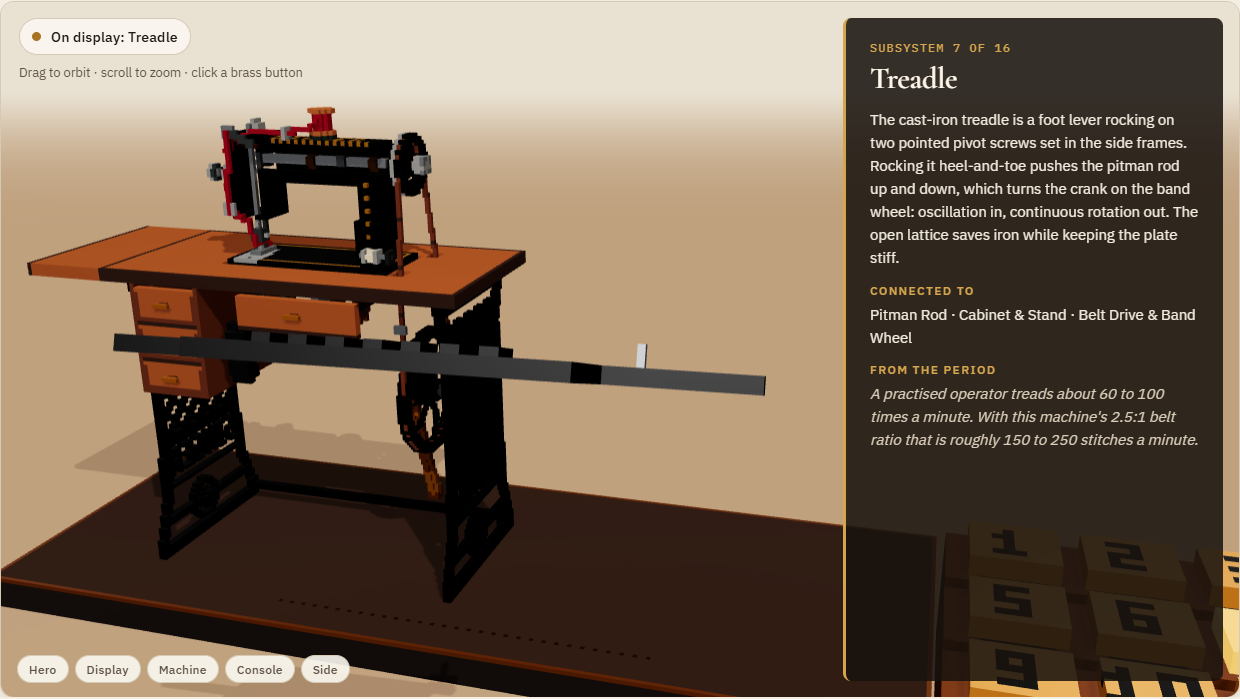
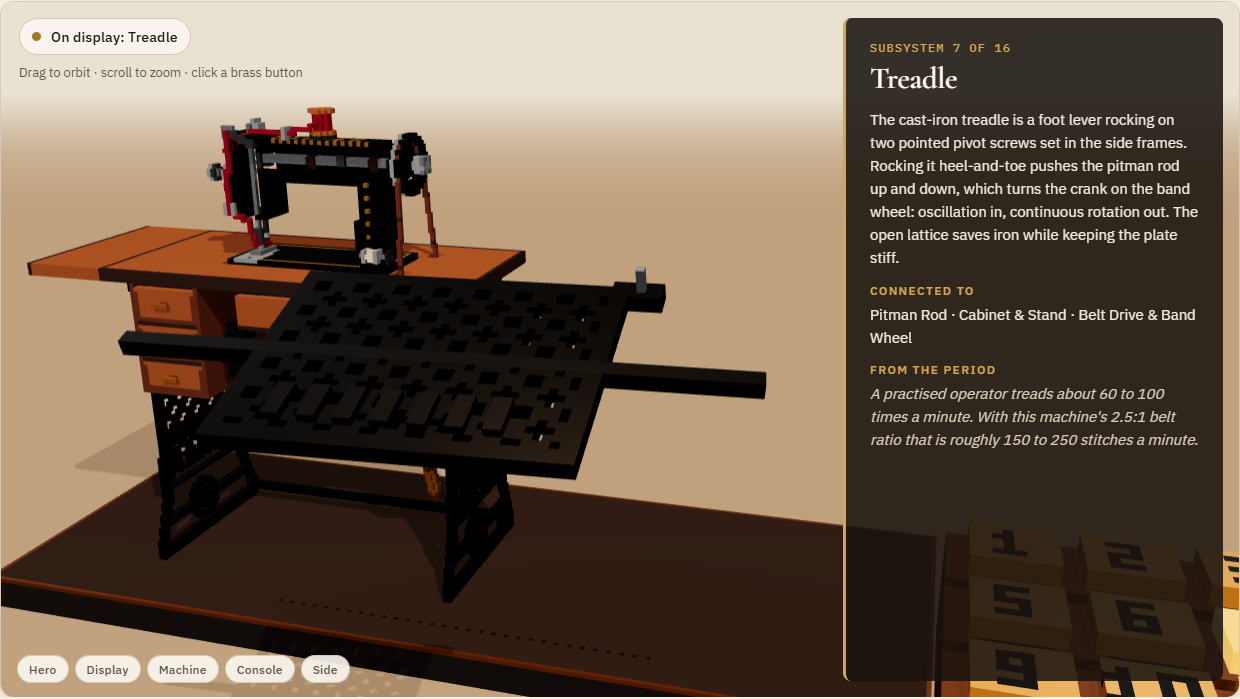
Treadle display tilts its lattice face toward the visitor (+20 deg)

Changed region(s): [[0.0919, 0.3906, 0.6435, 0.691]]

diff --git a/docs/PLAN.md b/docs/PLAN.md
@@ -18,7 +18,7 @@ comes to rest at every corner. Display poses are Euler degrees `{x, y, z}` (appl
 | 4 | `shuttle` | `sys_shuttle` | 4 | 418 | 8×29×27 | (0, 0, 0.42) | −35, 20, 0 | part |
 | 5 | `drive_wheel` | `sys_drive_wheel` | 1 | 310 | 9×14×14 | (0.10, 0, 0) | 0, 90, 0 | part |
 | 6 | `belt_drive` | `sys_belt_drive` | 3 | 1,137 | 17×78×31 | (0, 0, 0.47) | 0, 90, 0 | part |
-| 7 | `treadle` | `sys_treadle` | 1 | 2,013 | 74×5×31 | (0, 0, 0.40) | −20, 0, 0 | part |
+| 7 | `treadle` | `sys_treadle` | 1 | 2,013 | 74×5×31 | (0, 0, 0.40) | 20, 0, 0 | part |
 | 8 | `pitman_rod` | `sys_pitman` | 1 | 207 | 3×34×14 | (−0.03, 0, 0) then (0, 0, 0.40) | 35, 90, 0 | part |
 | 9 | `crankshaft` | `sys_crankshaft` | 1 | 193 | 34×4×4 | (0, 0, 0.29) | 10, −15, 0 | part |
 | 10 | `gear_train` | `sys_gear_train` | 5 | 425 | 32×11×13 | (0, −0.12, 0) then (0, 0, 0.40) | −20, 25, 0 | part |
